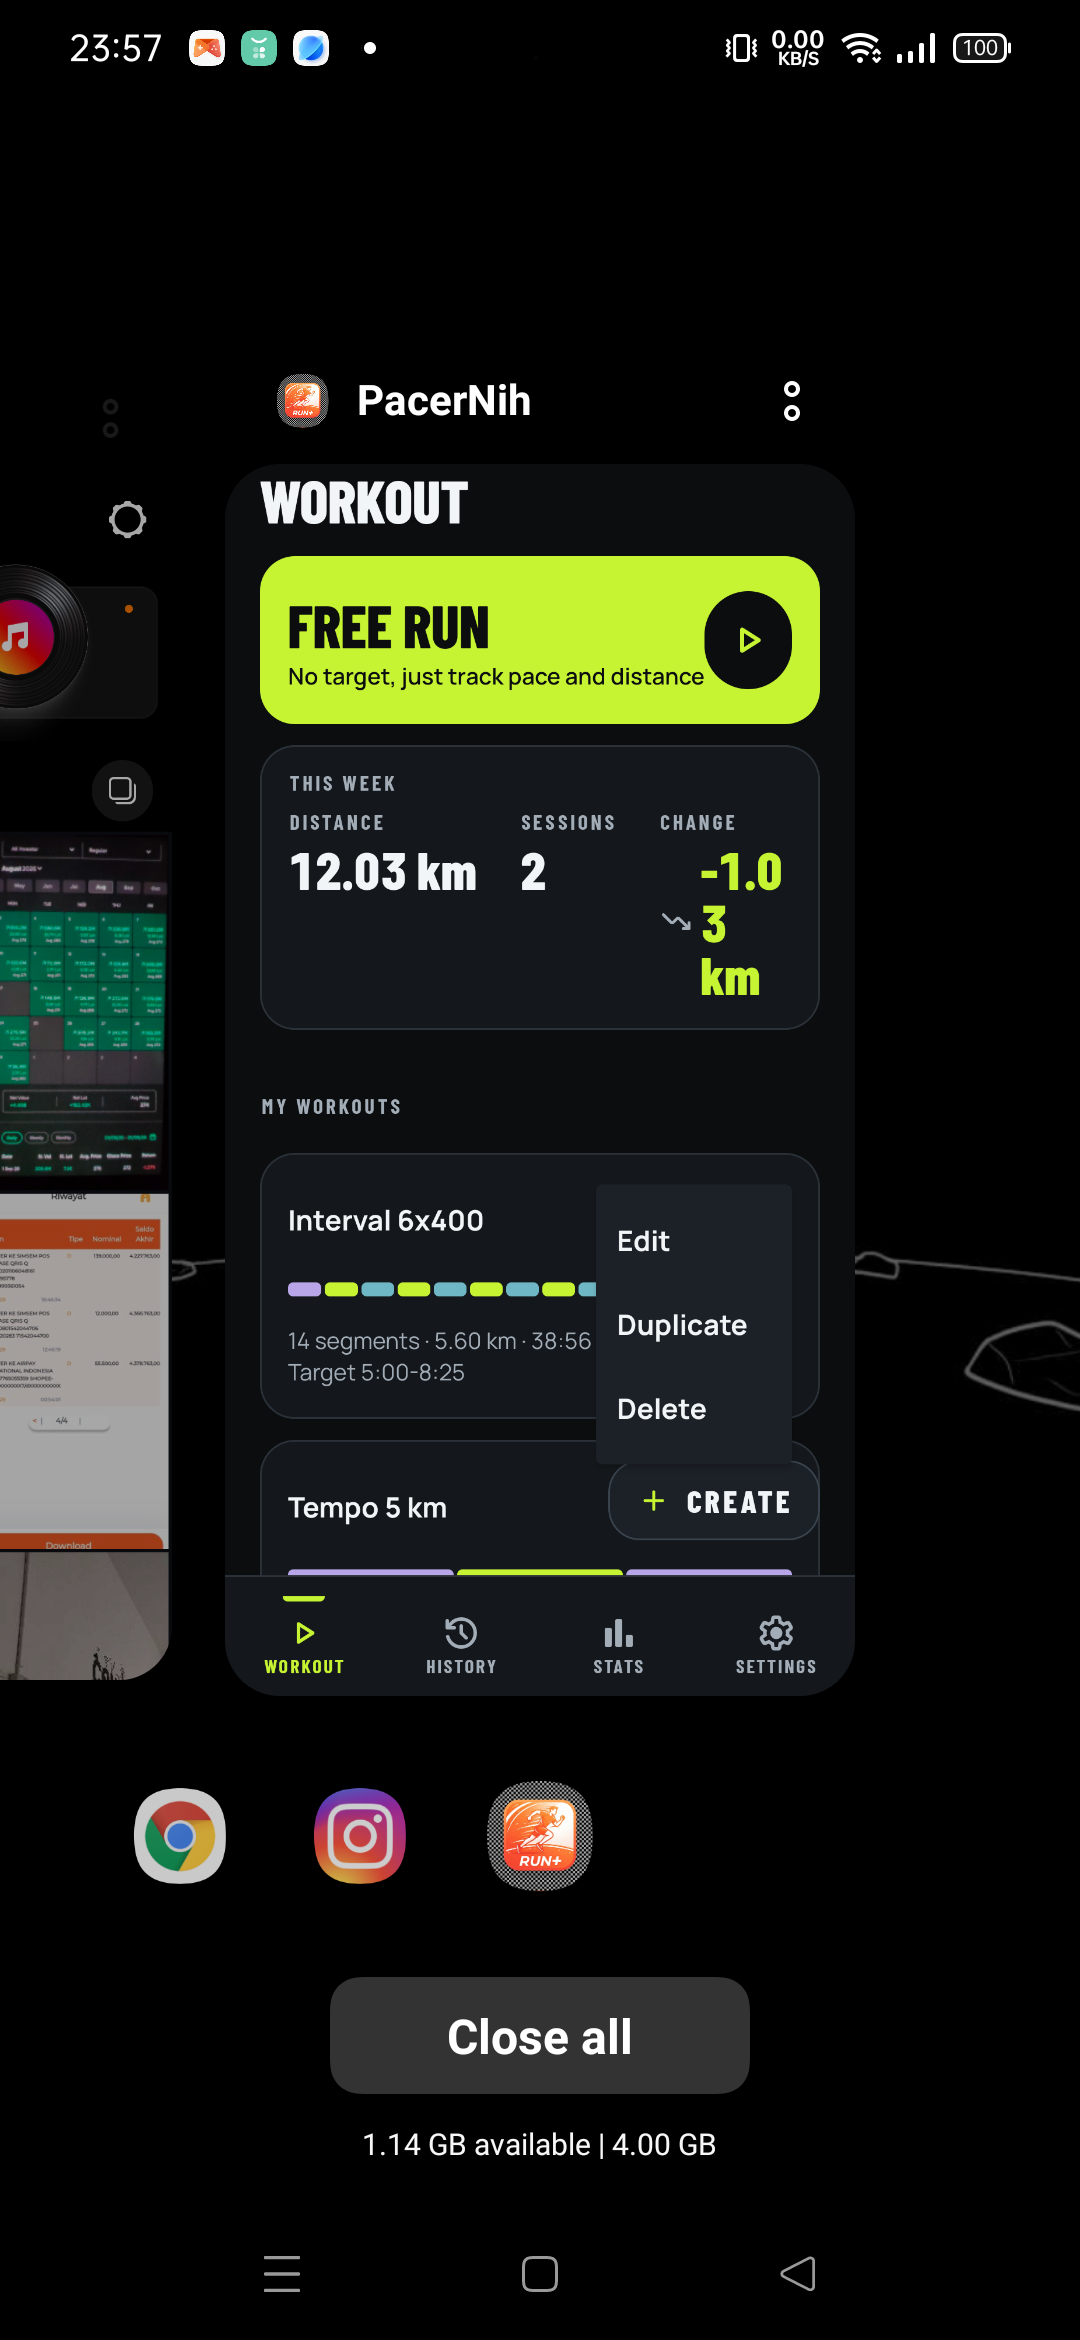
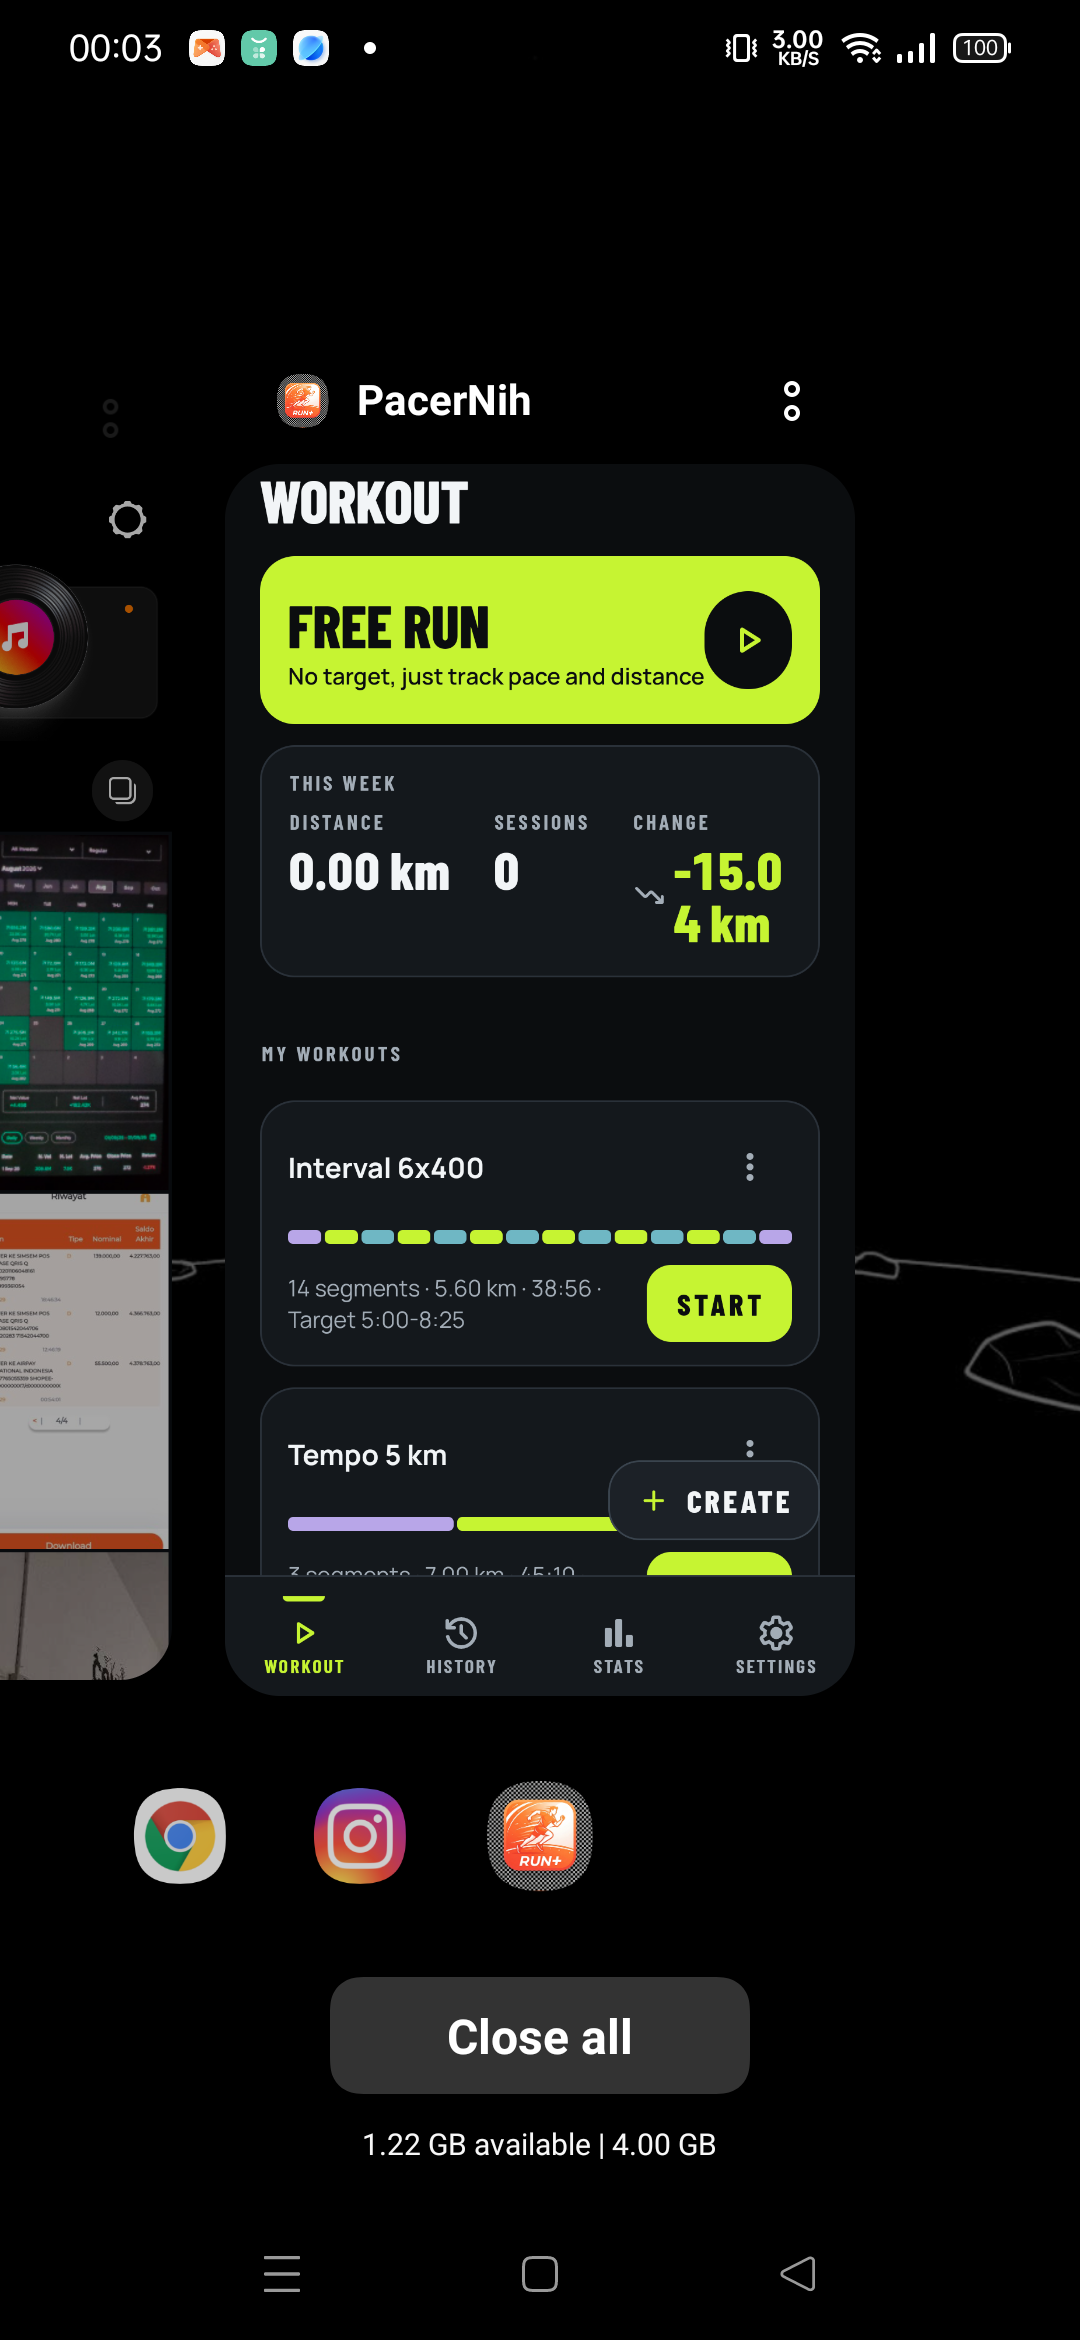
docs: add README.md for GitHub with screenshots; fix Stats title; tidy screenshot files

diff --git a/app/src/main/java/com/daniel/runcoach/ui/stats/StatsScreen.kt b/app/src/main/java/com/daniel/runcoach/ui/stats/StatsScreen.kt
@@ -69,7 +69,7 @@ fun StatsScreen(onOpenRecord: (String) -> Unit, onOpenSession: (String) -> Unit,
     val spacing = LocalRcSpacing.current
     androidx.compose.material3.Scaffold(bottomBar = { MainBottomBar(MainTab.STATS, onSelectTab) }) { padding ->
         Column(modifier = Modifier.fillMaxSize().background(colors.bg).padding(padding)) {
-            RcScreenTitle(stringResource(R.string.s09_title), modifier = Modifier.padding(horizontal = spacing.screenH, vertical = spacing.s2))
+            RcScreenTitle(stringResource(R.string.tab_stats), modifier = Modifier.padding(horizontal = spacing.screenH, vertical = spacing.s2))
             SegmentedControl(
                 options = listOf(0 to stringResource(R.string.sub_weekly), 1 to stringResource(R.string.sub_records)),
                 selected = tab,

diff --git a/README.md b/README.md
@@ -1,0 +1,265 @@
+# PacerNih 🏃♂
+
+**An offline, no-cost Android running app with structured, segment-based workouts and real-time pace coaching.**
+
+PacerNih (package `com.daniel.runcoach`) tracks distance, pace and time from GPS, runs structured
+workouts (warm-up / intervals / tempo / recovery / cool-down), coaches you with voice + beeps, grades
+every segment (PASS / BORDERLINE / FAIL), and keeps history, personal records and weekly stats — all
+**100% on-device**. No accounts, no cloud, no API keys, no ads, no paid services.
+
+---
+
+## Table of contents
+- [What it is](#what-it-is)
+- [Features](#features)
+- [Screenshots](#screenshots)
+- [How it works](#how-it-works)
+- [Getting started (build & run locally)](#getting-started-build--run-locally)
+- [Project structure](#project-structure)
+- [Tech stack](#tech-stack)
+- [Permissions](#permissions)
+- [Data & privacy](#data--privacy)
+- [Testing](#testing)
+- [Docs](#docs)
+- [Credits](#credits)
+
+---
+
+## What it is
+
+PacerNih is a personal Android app (think *Strava × Runna*, but offline) for running and walking with
+**structured workouts**. You build a workout as an ordered list of segments, each with a **limit**
+(distance or duration) and an optional **target pace**, then press Start. The app counts you down, drives
+the workout automatically, tracks GPS, computes pace, speaks corrections ("too slow", "too fast", "steady"),
+vibrates, and afterwards grades every segment and stores the full log.
+
+It is designed to be **free forever** and to work **without any network connection** (map tiles are the only
+optional online part, and the route still draws without them).
+
+## Features
+
+**Workouts**
+- Segment-based workouts: type (warm-up, run, walk, recovery, cool-down), limit (distance / duration / open),
+  optional target pace, and a "too fast" margin.
+- **Two-way target pace**: `≤ max` (must not be slower — for runs/intervals) and `≥ min` (must not be faster —
+  for warm-up / cool-down / recovery).
+- **Repeat** blocks (repeat *n* times, or *until total distance*), reorderable in the editor.
+- **Presets**: Stable run, Progressive tempo, Interval, Run/walk.
+- Built-in **Free Run** template (no target, just measure).
+- Workout editor with live validation and estimated total distance/time.
+
+**Live run screen**
+- Huge live pace, target pace, and a status band (STABIL / TERLALU LAMBAT / TERLALU CEPAT with the delta).
+- Segment progress, remaining distance/time, average pace, "required pace for the rest".
+- Countdowns (start + 3‑2‑1 before time-based segments), distance cue before distance-based segments,
+  km markers, and voice/beep/haptic alerts.
+- Pause/resume, skip segment, extend segment, live segment list, auto-pause, hold-to-stop.
+- Live pace never disappears (holds the last value).
+
+**History & analysis**
+- Session list grouped by month with search; per-session detail with segments, km splits, charts and map.
+- Segment results with TARGET / ACTUAL / DELTA and a status chip (LULUS / GAGAL / BORDERLINE / TANPA TARGET /
+  DILEWATI / DIHENTIKAN SEBELUM SELESAI).
+- **Fastest 1 km in this session** (sliding-window record), GPX export, distance calibration.
+- Route map with per-segment polyline, start/finish markers and tap-a-segment tooltip.
+- **Share as image**: pick data + template, transparent PNG, share or save to gallery.
+- **Copy workout structure as text** (for a Strava description).
+
+**Stats & records**
+- Weekly summary (Monday–Sunday) with charts (distance per day, 12-week trend, pace per week).
+- Personal records: 1 km, 5 km, 10 km, half marathon, marathon, with progression chart and Top 10.
+
+**Data**
+- Backup / restore to a single file (SAF), data summary, two-step "delete all data".
+- 100% local: Room (SQLite) for data, DataStore for settings.
+
+## Screenshots
+
+| Home | Workout editor |
+|---|---|
+| ![Home](docs/screenshots/S02-latihan.png) | ![Workout editor](docs/screenshots/S03-editor.png) |
+
+| Segment editor | History |
+|---|---|
+| ![Segment editor](docs/screenshots/D01-segmen.png) | ![History](docs/screenshots/S07-riwayat.png) |
+
+| Session detail | Records |
+|---|---|
+| ![Session detail](docs/screenshots/S08-detail-sesi.png) | ![Records](docs/screenshots/S10-rekor.png) |
+
+| Weekly summary | Settings |
+|---|---|
+| ![Weekly summary](docs/screenshots/S09-statistik.png) | ![Settings](docs/screenshots/S12-pengaturan.png) |
+
+> The app ships with a dark and a light theme (follows the system by default).
+
+## How it works
+
+```
+LocationSource (Android) ──▶ WorkoutRunner (engine) ──▶ RunnerState + AlertEvent
+                                        │
+                                        ├─▶ RunForegroundService ─▶ TTS / beeps / vibration / notification
+                                        ├─▶ UI (Compose, StateFlow)
+                                        └─▶ Persistence (Room + DataStore)
+```
+
+- **`:engine`** is **pure Kotlin/JVM** with **zero `android.*` imports**. It contains the domain model, GPS
+  sample filtering, distance tracking with boundary interpolation, pace math, the workout state machine,
+  the alert engine, segment/km/record evaluation, weekly stats and the voice phrase builder. It never reads
+  the system clock (time always comes from the caller), so it is fully deterministic and unit-testable.
+- **`:app`** is the Android layer: Jetpack Compose UI, a foreground service that owns the runner and the
+  location source, Room persistence, DataStore settings, osmdroid map, TTS/beep/haptics, and backup/restore.
+- The engine is the **single source of truth** for numbers and rules; the UI only formats and displays them.
+
+## Getting started (build & run locally)
+
+### Requirements
+- **JDK 17** (the project targets Java 17).
+- **Android SDK** with **API 34** (compile/target) and **API 26+** to run.
+- A physical device or emulator (GPS works best on a real device).
+- Windows, macOS or Linux. Commands below use `./gradlew` (macOS/Linux) — on Windows use `gradlew.bat`.
+
+### 1. Clone
+```bash
+git clone <your-repo-url> pacernih
+cd pacernih
+```
+
+### 2. Point Gradle at your SDK
+Create `local.properties` in the repo root (it is git-ignored):
+```properties
+sdk.dir=C:\\Users\\<you>\\AppData\\Local\\Android\\Sdk
+# macOS/Linux: sdk.dir=/Users/<you>/Library/Android/sdk
+```
+
+### 3. Build & install a debug build
+```bash
+./gradlew :app:assembleDebug      # build the APK
+./gradlew :app:installDebug       # install on the connected device/emulator
+```
+
+### 4. Run the tests
+```bash
+./gradlew :engine:test                 # pure-Kotlin engine unit tests
+./gradlew :app:testDebugUnitTest       # app unit tests
+./gradlew :app:connectedDebugAndroidTest   # on-device (instrumented) tests
+```
+
+### 5. Build a release APK
+The release build is signed with a keystore referenced in `app/build.gradle.kts`
+(`signingConfigs { create("release") { storeFile = file("../release.keystore") ... } }`).
+The keystore **is not committed**. For your own release build, create one and update the config:
+
+```bash
+keytool -genkey -v -keystore release.keystore -alias runcoach -keyalg RSA -keysize 2048 -validity 10000
+./gradlew :app:assembleRelease
+# → app/build/outputs/apk/release/app-release.apk
+```
+Alternatively, build only the debug variant, or edit `app/build.gradle.kts` to use your own signing config.
+
+### Debug-only sample data
+The app ships **no sample data**. In a **debug** build there is a *Fill sample data / Clear sample data*
+pair on the debug screen (Settings ▸ Developer ▸ Simulator) to populate a few example sessions for
+exploration. Release builds contain none of it.
+
+## Project structure
+
+```
+pacernih/
+├── app/                     # Android application module
+│   └── src/
+│       ├── main/            # production code, resources, manifest
+│       │   └── java/com/daniel/runcoach/
+│       │       ├── data/        # Room entities/DAO/database, repositories, DataStore
+│       │       ├── service/     # RunForegroundService, location source, TTS/beep/haptics
+│       │       ├── ui/          # Compose screens (home, editor, run, finish, history, stats, settings…)
+│       │       │   ├── theme/       # RcColors / RcTypography / spacing / icons (design system)
+│       │       │   ├── components/  # reusable Compose components (buttons, cards, chips…)
+│       │       │   ├── charts/      # bar/line charts (Compose Canvas)
+│       │       │   └── map/         # osmdroid route map
+│       │       ├── share/       # share-as-image renderer + file store
+│       │       └── export/      # GPX export
+│       ├── debug/           # debug-only code (sample data seeder) — never in release
+│       ├── release/         # release-only no-op implementations
+│       ├── test/            # app unit tests
+│       └── androidTest/     # instrumented tests
+├── engine/                  # pure Kotlin/JVM module (no android.*)
+│   └── src/main/kotlin/com/daniel/runcoach/engine/
+│       ├── model/           # Workout, Segment, Repeat, Limit, validation, JSON
+│       ├── gps/             # SampleFilter, DistanceTracker (Haversine + interpolation)
+│       ├── metrics/         # PaceCalculator / LivePaceEstimator
+│       ├── runner/          # WorkoutRunner (state machine) + AlertEvent
+│       ├── alert/           # AlertEngine (gates, hysteresis, priority)
+│       ├── result/          # SegmentEvaluator, KmSplitCalculator, BestEffortCalculator
+│       ├── stats/           # WeeklyStatsAggregator, RecordProgression
+│       ├── naming/          # DefaultSessionNamer
+│       ├── voice/           # PhraseBuilder (ID/EN)
+│       ├── chart/           # chart math
+│       └── sim/             # TrackSimulator (synthetic GPS)
+├── docs/                    # APP_GUIDE, PROGRESS, DECISIONS, screenshots, design mocks
+├── RUNCOACH_PLAN.md         # the full specification (data model, formulas, tasks)
+├── DESIGN.md                # visual spec
+└── gradle/libs.versions.toml
+```
+
+## Tech stack
+
+| Area | Choice |
+|---|---|
+| Language | Kotlin |
+| UI | Jetpack Compose + Material 3 |
+| Navigation | Navigation Compose (4-tab bottom bar) |
+| Min / target SDK | 26 / 34 |
+| Location | `play-services-location` (FusedLocationProviderClient) with a `LocationManager` fallback |
+| Database | Room (SQLite), explicit migrations, no foreign keys (history is an append-only log) |
+| Settings | DataStore Preferences |
+| Serialization | kotlinx.serialization (workouts stored as JSON) |
+| Async | Coroutines + Flow |
+| Voice / beep / haptics | `TextToSpeech` (audio-focus ducking) + `ToneGenerator` + `Vibrator` |
+| Map | osmdroid (OpenStreetMap tiles, no API key) |
+| Charts | custom Compose Canvas |
+| DI | manual (constructor injection) |
+| Fonts | Barlow Condensed + Manrope (bundled, OFL) |
+
+## Permissions
+
+| Permission | Why |
+|---|---|
+| `ACCESS_FINE_LOCATION` / `ACCESS_COARSE_LOCATION` | route + pace |
+| `POST_NOTIFICATIONS` | ongoing run notification (Android 13+) |
+| `FOREGROUND_SERVICE` + `FOREGROUND_SERVICE_LOCATION` | keep tracking while the screen is off |
+| `WAKE_LOCK`, `VIBRATE`, `INTERNET` | keep screen awake, haptics, map tiles |
+
+The app deliberately **does not** request background location.
+
+## Data & privacy
+
+- All data lives on the device (Room database + DataStore). Nothing is uploaded anywhere.
+- No accounts, no analytics, no crash reporting, no third-party SDKs beyond the open-source libraries above.
+- Backup/restore writes a single file you choose via the system file picker; delete-all is a two-step action.
+
+## Testing
+
+- **Engine**: extensive pure-Kotlin unit tests (formulas, filters, state machine, evaluator, records, stats,
+  phrase builder, golden event sequences).
+- **App**: unit tests + **instrumented** tests (UI flows, Room repositories, migration, share-image alpha/size,
+  map rendering).
+- Run everything with the commands in [Getting started](#getting-started-build--run-locally).
+
+## Docs
+
+- [`RUNCOACH_PLAN.md`](RUNCOACH_PLAN.md) — the specification: data model, engine formulas, task plan.
+- [`DESIGN.md`](DESIGN.md) — visual design spec (tokens, components, screens).
+- [`docs/APP_GUIDE.md`](docs/APP_GUIDE.md) — app guide: flows, use cases, per-page detail.
+- [`docs/PROGRESS.md`](docs/PROGRESS.md) — task-by-task progress log.
+- [`docs/DECISIONS.md`](docs/DECISIONS.md) — design/implementation decisions.
+
+## Credits
+
+- Fonts: **Barlow Condensed** and **Manrope** (SIL Open Font License).
+- Icons: Material Symbols (Apache 2.0).
+- Map tiles: © OpenStreetMap contributors, rendered with **osmdroid**.
+
+---
+
+*PacerNih is a personal project. No license file is included yet — add one before distributing.*

diff --git a/docs/PROGRESS.md b/docs/PROGRESS.md
@@ -666,3 +666,9 @@ Sumber kebenaran visual baru = `docs/ui-review/mock/` (HTML/CSS). Isi/data halam
 
 ## F3 tweak (2026-10-11)
 - Label blok segmen lulus di PNG share: "SEGMEN LULUS" -> "SPLIT SEGMENT"; jarak label ke chart ditambah.
+
+## README untuk GitHub + screenshot (2026-10-12)
+- `README.md` di root: ringkasan app, fitur, screenshot, arsitektur, cara build/run lokal, struktur repo, tech stack,
+  izin, privasi, testing, docs. Screenshot di `docs/screenshots/` (S02, S03, D01, S07, S08, S09, S10, S12).
+- Screenshot di-capture ulang biner-aman (`adb shell screencap` + `adb pull`). Judul halaman Statistik diperbaiki
+  ("STATISTIK", sebelumnya "Weekly summary").
